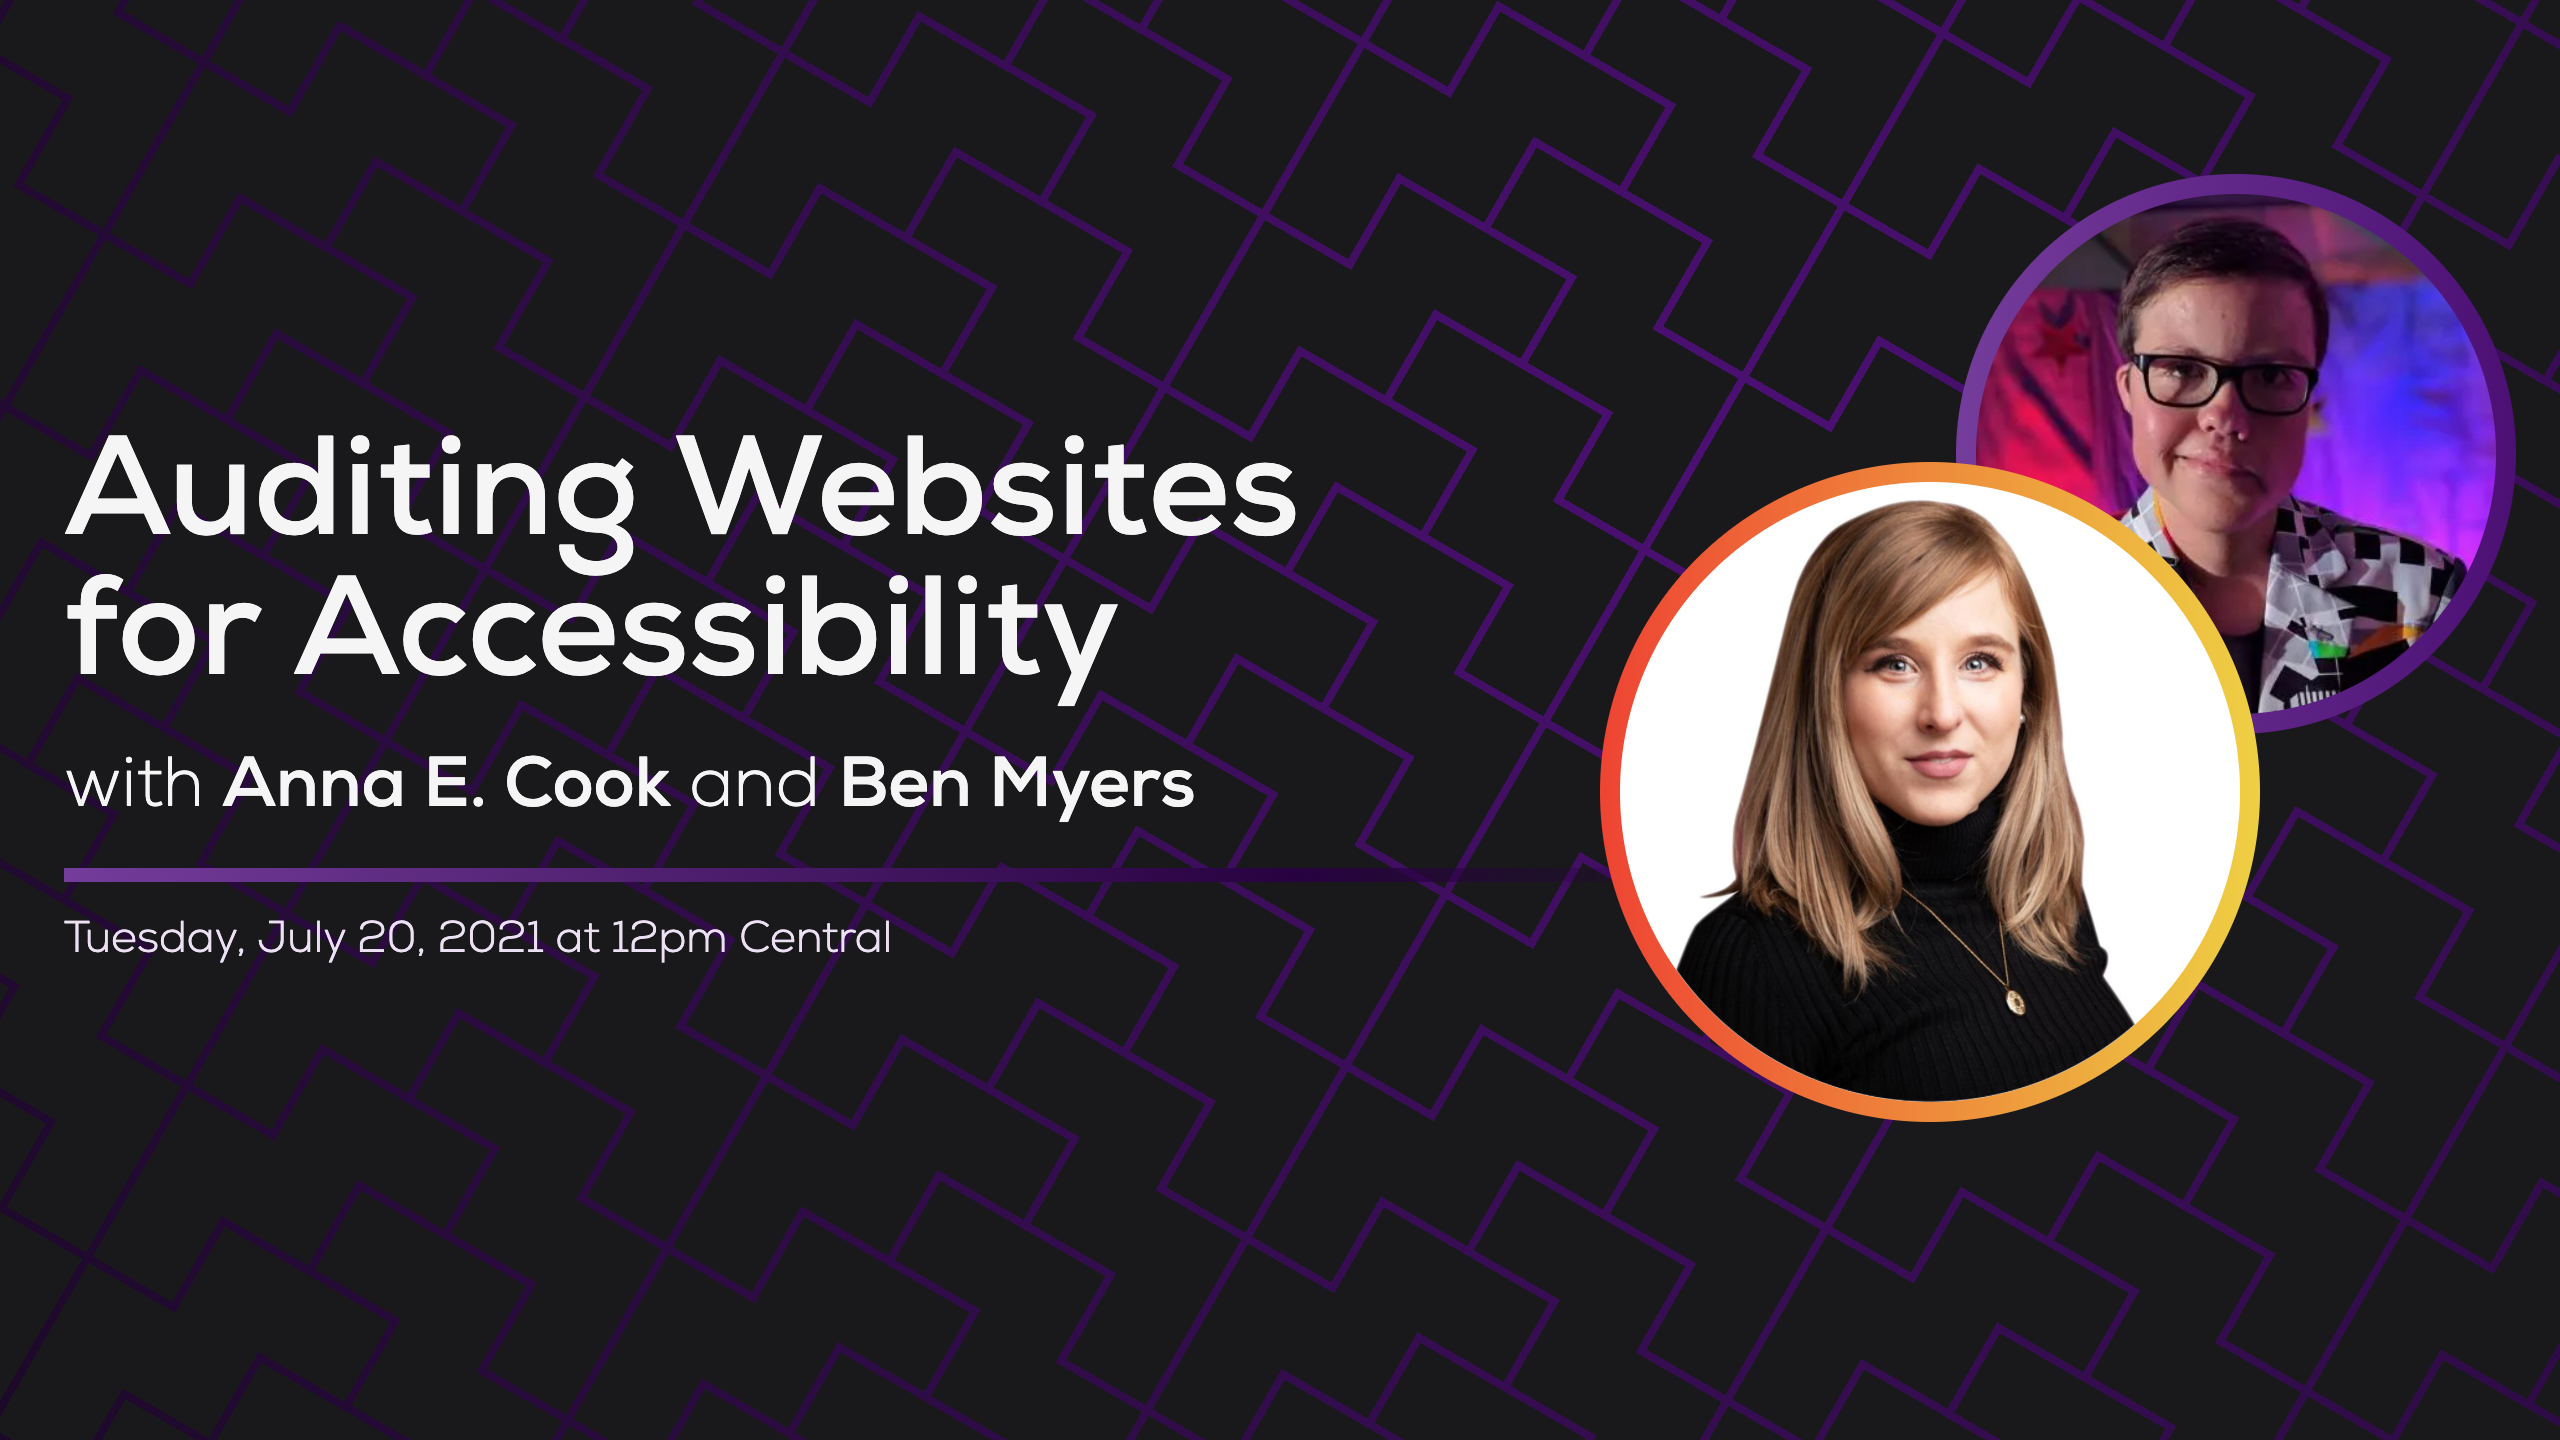
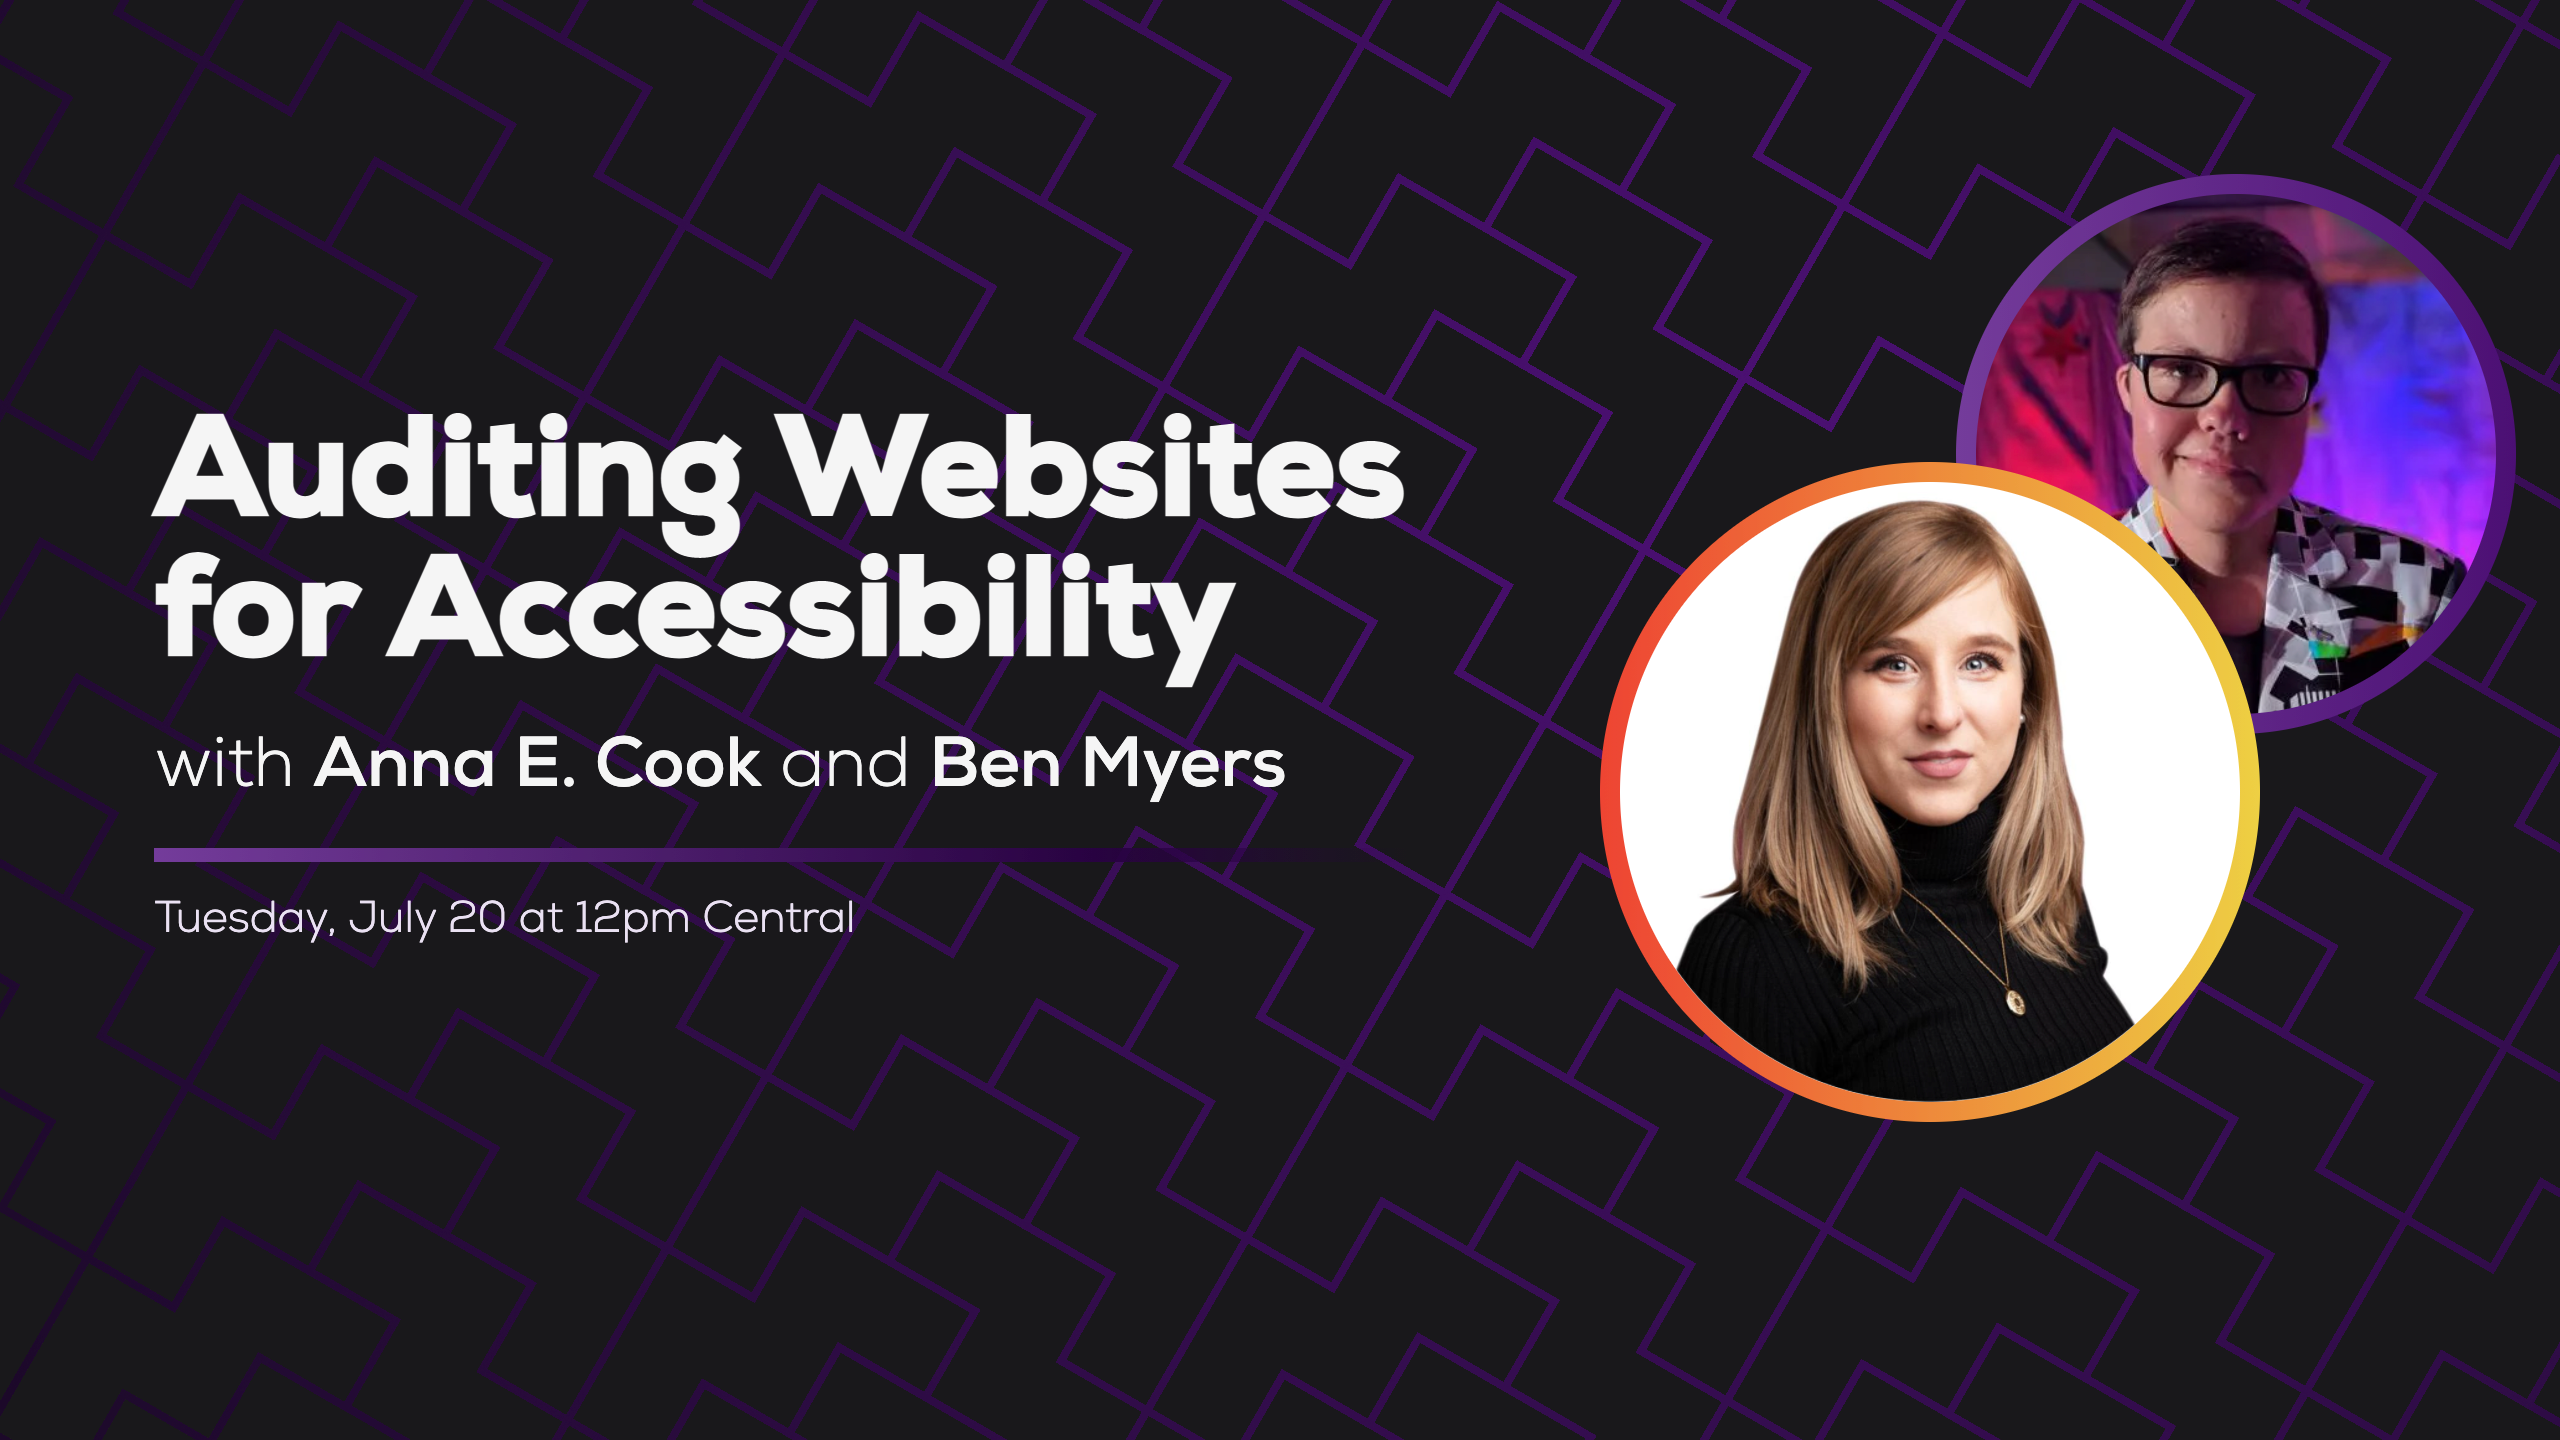
Fix Anna's thumbnail

Changed region(s): [[0.0312, 0.2812, 0.5625, 0.6562]]

diff --git a/src/thumbnail.html b/src/thumbnail.html
@@ -115,12 +115,12 @@
 <body>
 	<div class="flex">
 		<header>
-			<h1>Processing Styles, Templates, React, and More with Eleventy Custom Extensions!</h1>
-			<p id="hosts">with <b>Ben Holmes</b> and <b>Ben Myers</b></p>
-			<footer>Tuesday, July 27 at 12pm Central</p></footer>
+			<h1>Auditing Websites<br />for Accessibility</h1>
+			<p id="hosts">with <b>Anna E. Cook</b> and <b>Ben Myers</b></p>
+			<footer>Tuesday, July 20 at 12pm Central</p></footer>
 		</header>
 		<main>
-			<img id="avatar-1" src="{{ 'Ben Holmes' | avatar }}" alt="" />
+			<img id="avatar-1" src="{{ 'Anna E. Cook' | avatar }}" alt="" />
 			<div class="ring"></div>
 			<img id="avatar-2" src="https://res.cloudinary.com/bendmyers/image/upload/c_thumb,g_face,q_auto,f_auto,w_400,h_400/v1617494798/Some%20Antics%20Avatars/Ben%20Myers" alt="" />
 			<div class="ring"></div>
